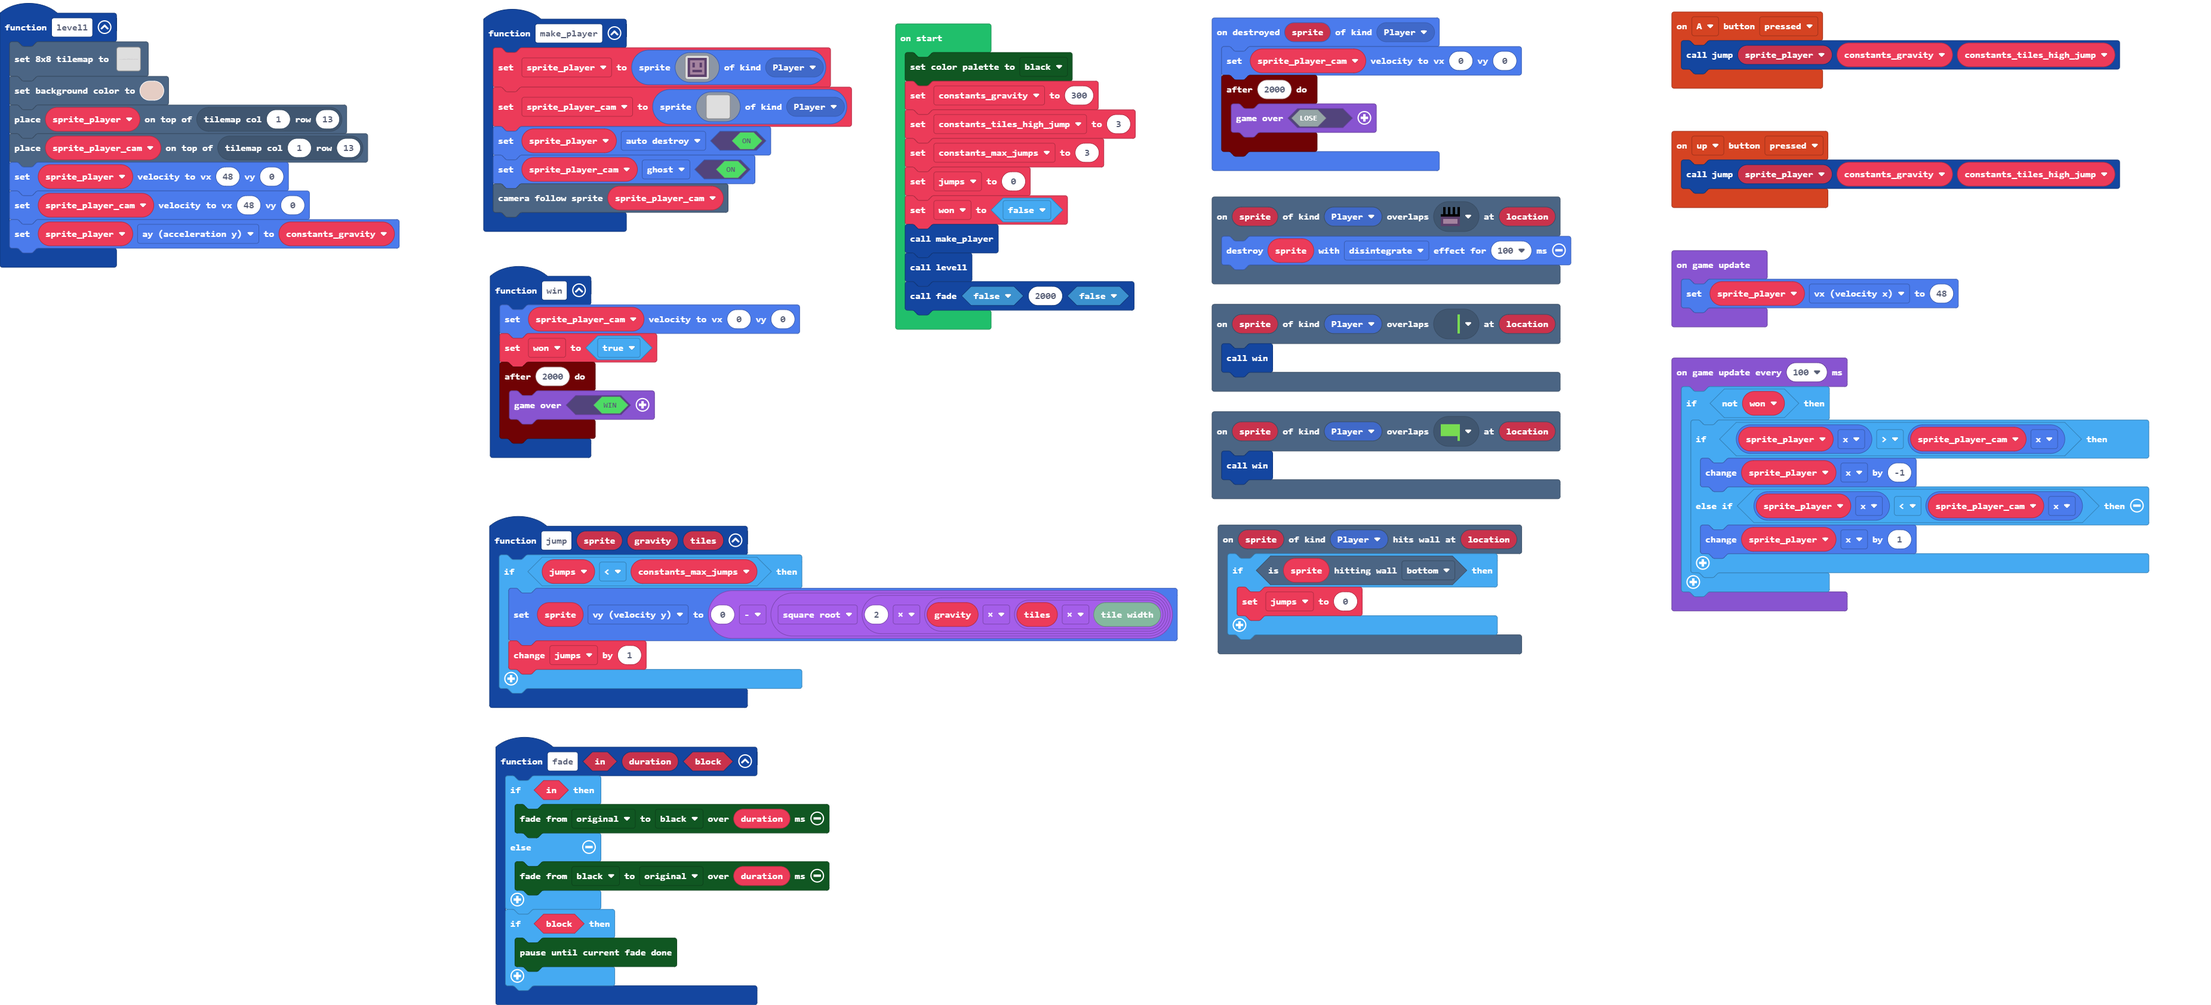
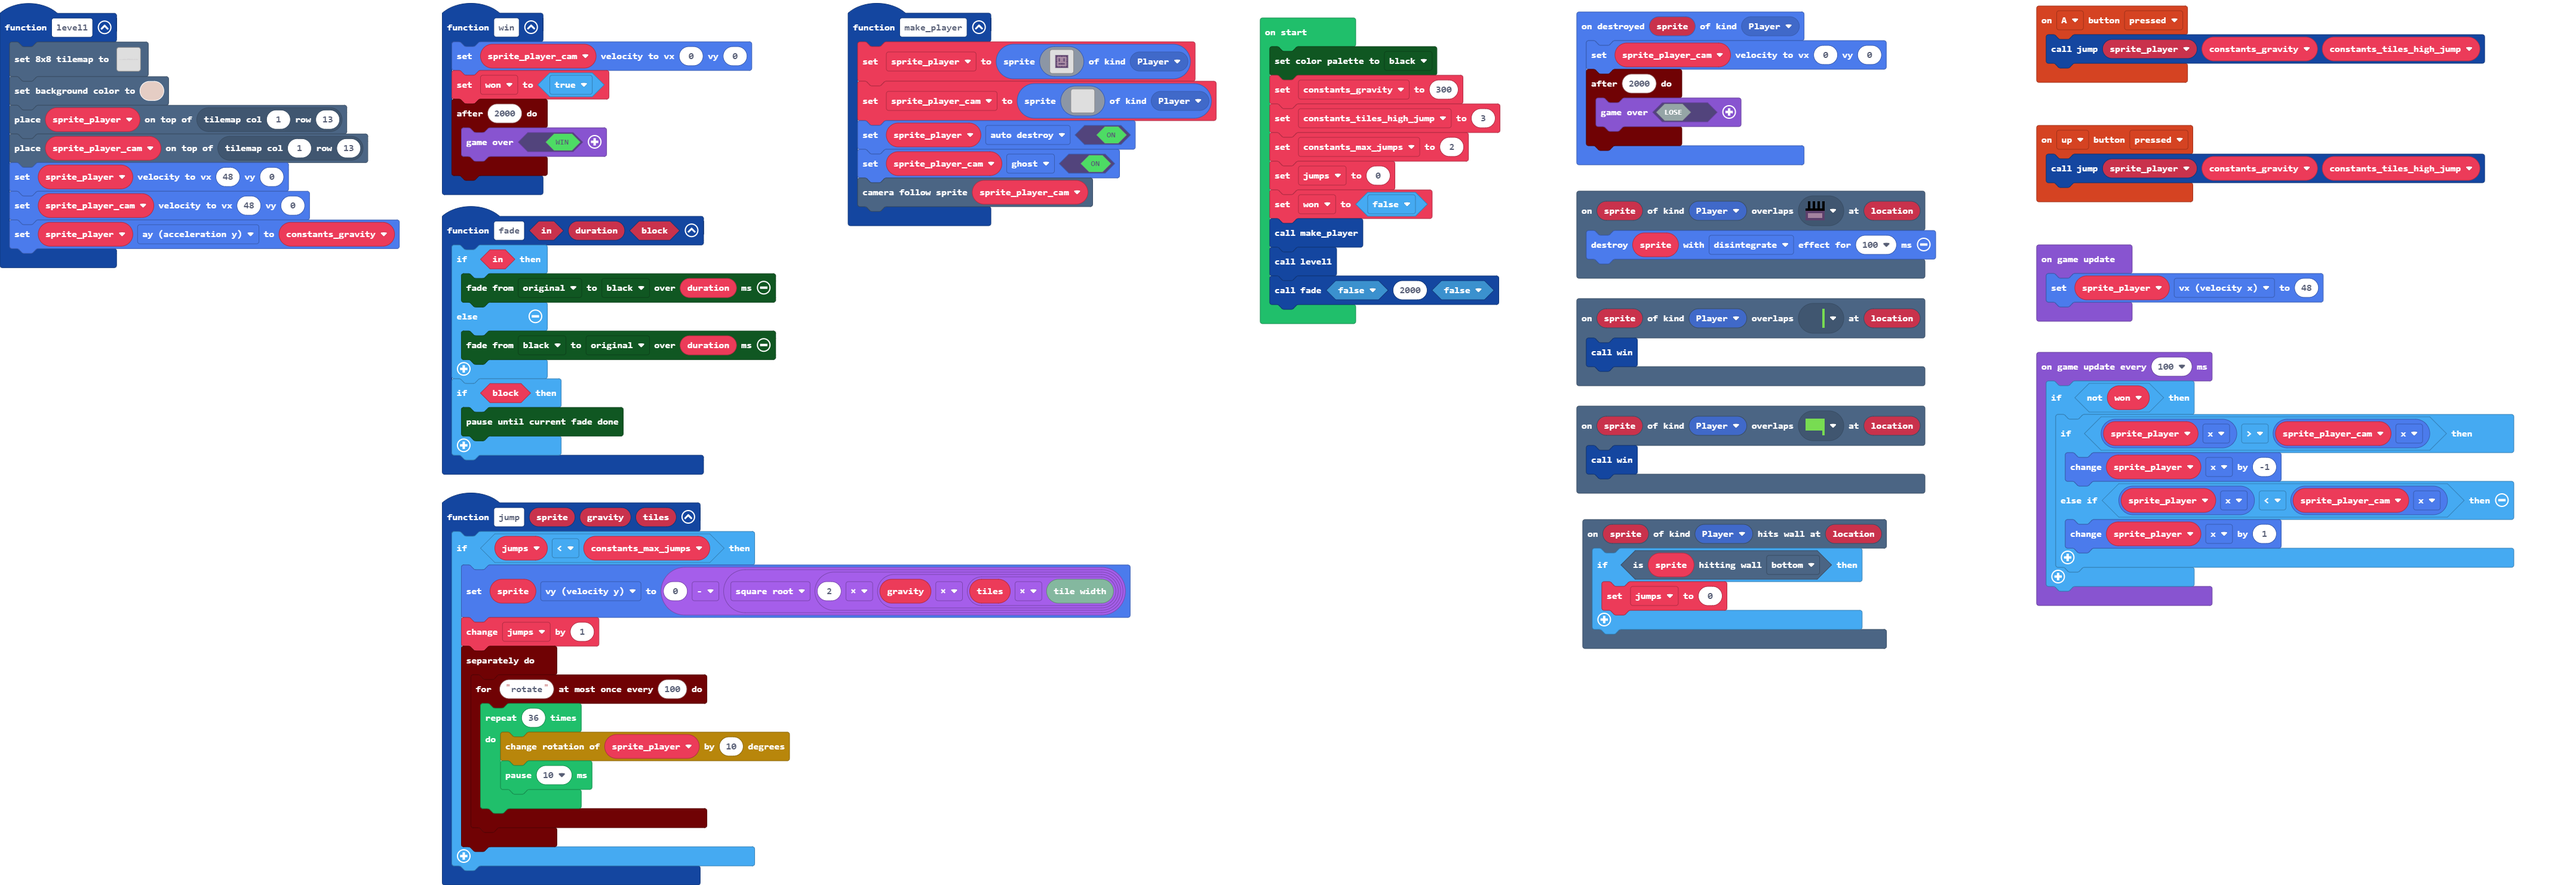
Rotate when jump and decrease maximum jumps

diff --git a/main.ts b/main.ts
@@ -49,14 +49,18 @@ function win () {
 }
 function make_player () {
     sprite_player = sprites.create(img`
-        c c c c c c c c 
-        c b b b b b b c 
-        c b c b b c b c 
-        c b c b b c b c 
-        c b b b b b b c 
-        c b c c c c b c 
-        c b b b b b b c 
-        c c c c c c c c 
+        . . . . . . . . . . . . 
+        . . . . . . . . . . . . 
+        . . c c c c c c c c . . 
+        . . c b b b b b b c . . 
+        . . c b c b b c b c . . 
+        . . c b c b b c b c . . 
+        . . c b b b b b b c . . 
+        . . c b c c c c b c . . 
+        . . c b b b b b b c . . 
+        . . c c c c c c c c . . 
+        . . . . . . . . . . . . 
+        . . . . . . . . . . . . 
         `, SpriteKind.Player)
     sprite_player_cam = sprites.create(img`
         . 
@@ -69,6 +73,14 @@ function jump (sprite: Sprite, gravity: number, tiles2: number) {
     if (jumps < constants_max_jumps) {
         sprite.vy = 0 - Math.sqrt(2 * (gravity * (tiles2 * tiles.tileWidth())))
         jumps += 1
+        timer.background(function () {
+            timer.throttle("rotate", 100, function () {
+                for (let index = 0; index < 36; index++) {
+                    transformSprites.changeRotation(sprite_player, 10)
+                    pause(10)
+                }
+            })
+        })
     }
 }
 function fade (_in: boolean, duration: number, block: boolean) {
@@ -102,7 +114,7 @@ color.Black
 )
 constants_gravity = 300
 constants_tiles_high_jump = 3
-constants_max_jumps = 3
+constants_max_jumps = 2
 jumps = 0
 won = false
 make_player()
